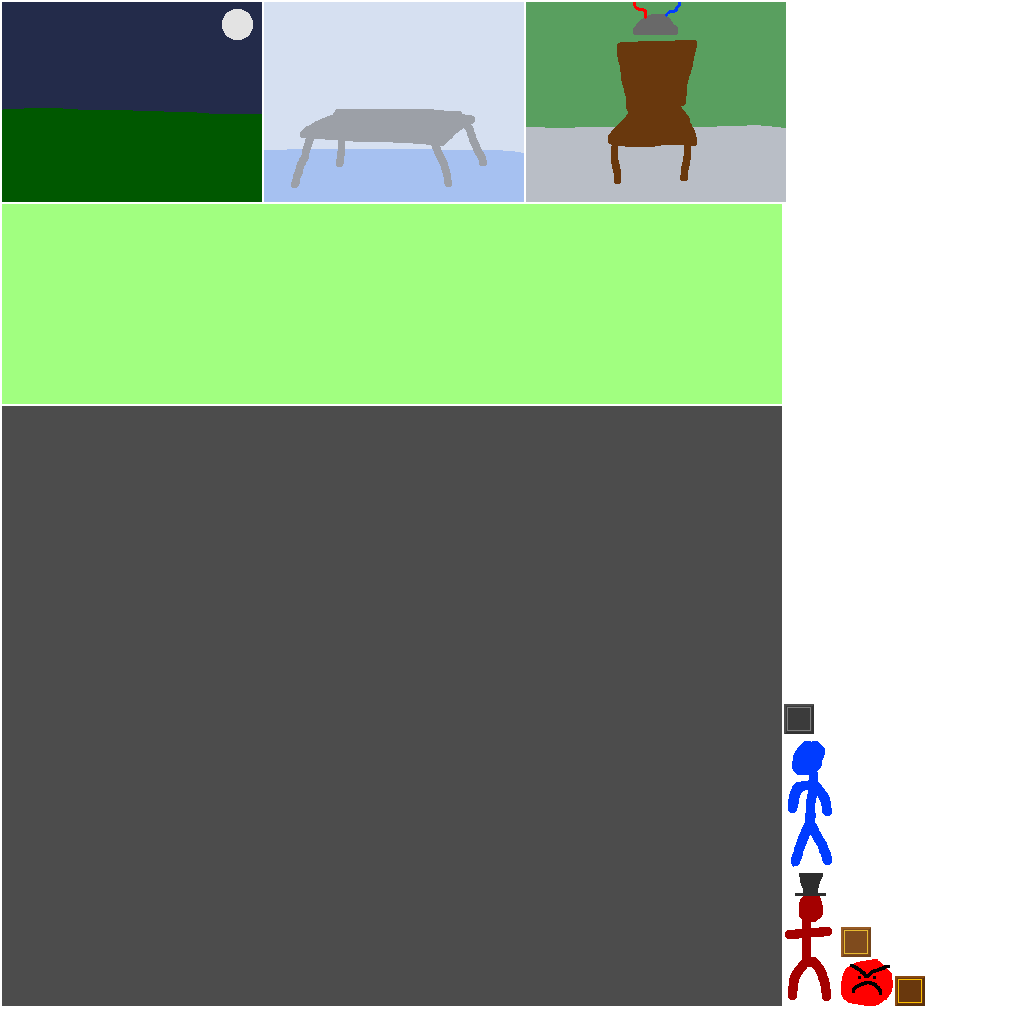
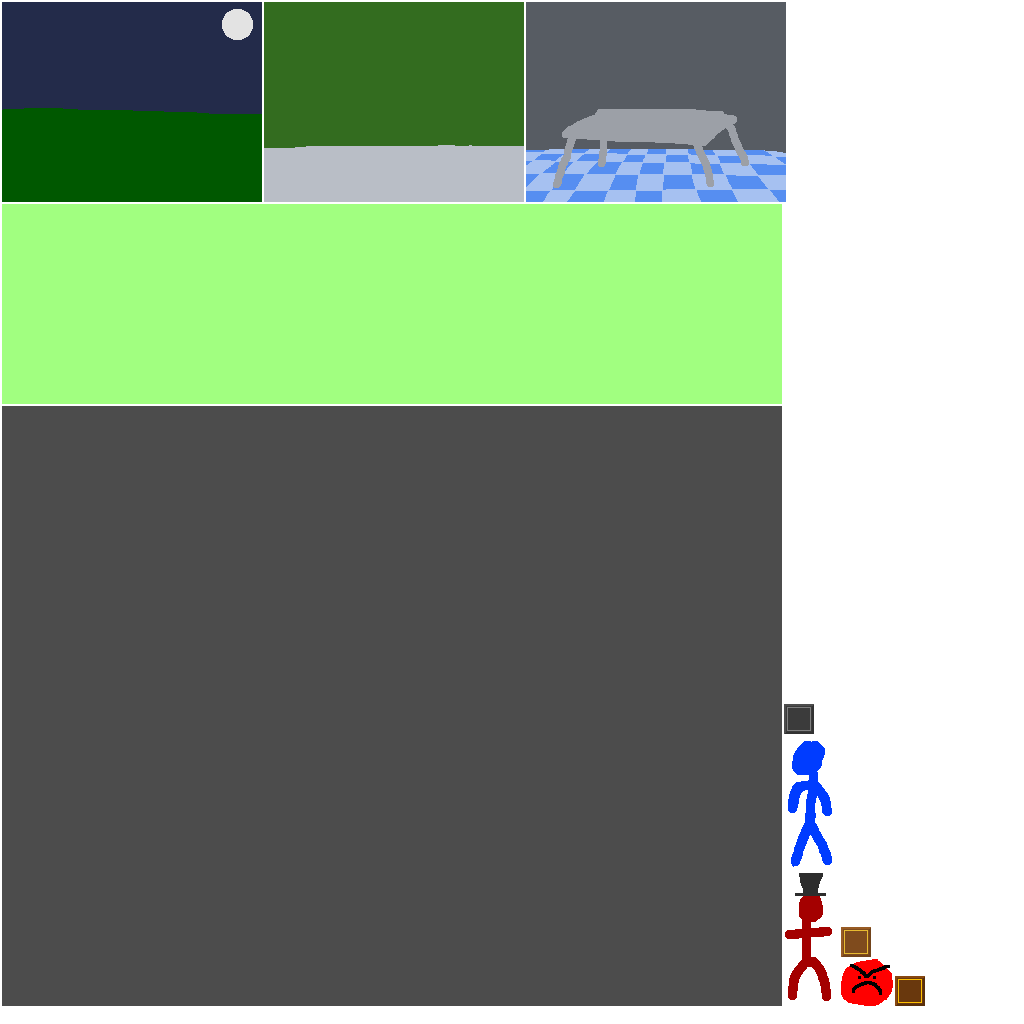
Bunch more placeholder art

Changed region(s): [[0.25, 0.0, 0.7812, 0.2188]]

diff --git a/core/src/uk/co/samatkins/frankenstein/PlayScene.java b/core/src/uk/co/samatkins/frankenstein/PlayScene.java
@@ -51,6 +51,9 @@ public class PlayScene extends Scene {
 	private final Label incomeLabel;
 	private final Label expensesLabel;
 
+	private final TextureRegion applicantBackground,
+								monstersBackground,
+								outrageBackground;
 	private final TextureRegion applicantImage;
 	private int applicantCount;
 	private float applicantCounter;
@@ -127,6 +130,10 @@ public class PlayScene extends Scene {
 		tempMan = game.skin.getRegion("temp-man");
 		applicantImage = game.skin.getRegion("applicant");
 		sadFace = game.skin.getRegion("sadface");
+
+		monstersBackground = game.skin.getRegion("monster-closet");
+		applicantBackground = game.skin.getRegion("waiting-room");
+		outrageBackground = game.skin.getRegion("outrage-room");
 
 		bodyPartCount = 0;
 		bodyCount = 0;
@@ -451,21 +458,21 @@ public class PlayScene extends Scene {
 		batch.draw(zappingBackground, 520, 400);
 
 		// Monster storage
-//		batch.draw(zappingBackground, 0, 200);
+		batch.draw(monstersBackground, 0, 200);
 		int drawMonsters = monsterCount - (draggingMonster ? 1 : 0);
 		for (int i=0; i<drawMonsters; i++) {
 			batch.draw(tempMan, (i % 8) * 30, 250 - (i / 8) * 10);
 		}
 
 		// Job applicants
-//		batch.draw(zappingBackground, 0, 200);
+		batch.draw(applicantBackground, 260, 200);
 		int drawApplicants = applicantCount - (draggingApplicant ? 1 : 0);
 		for (int i=0; i<drawApplicants; i++) {
 			batch.draw(applicantImage, 260 + (i % 8) * 30, 250 - (i / 8) * 10);
 		}
 
 		// Public Outrage
-//		batch.draw(zappingBackground, 0, 200);
+		batch.draw(outrageBackground, 520, 200);
 		int drawOutrages = (int) (outragePercent / 10);
 		for (int i=0; i<drawOutrages; i++) {
 			batch.draw(sadFace, 520 + (i % 5) * 52, 300 - (i / 5) * 100);
